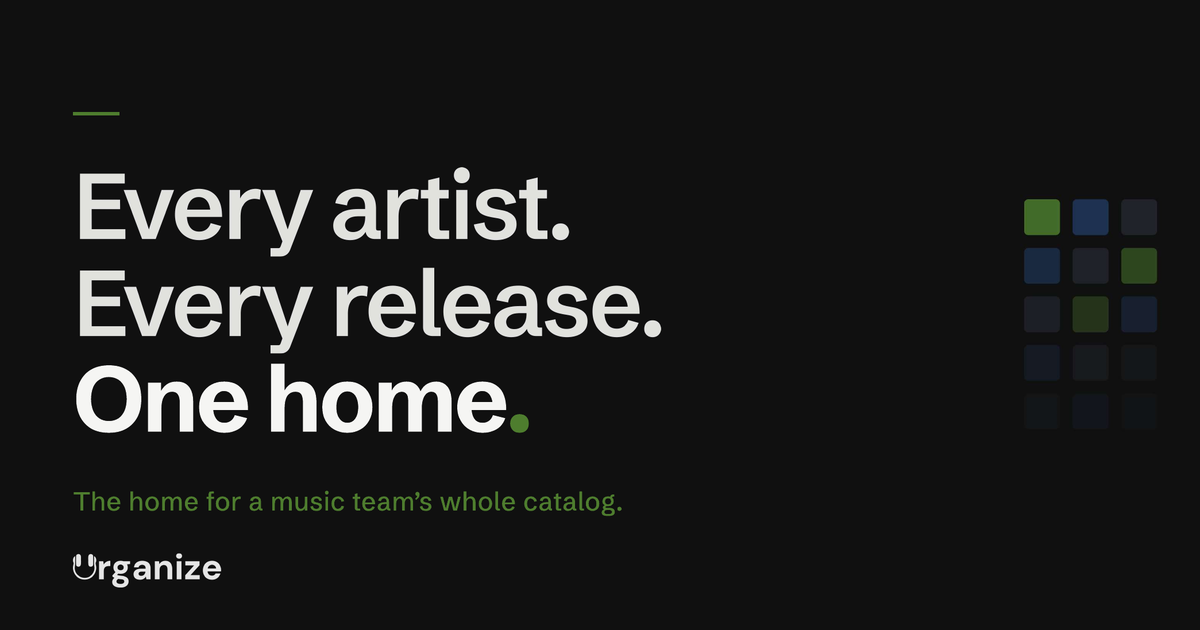
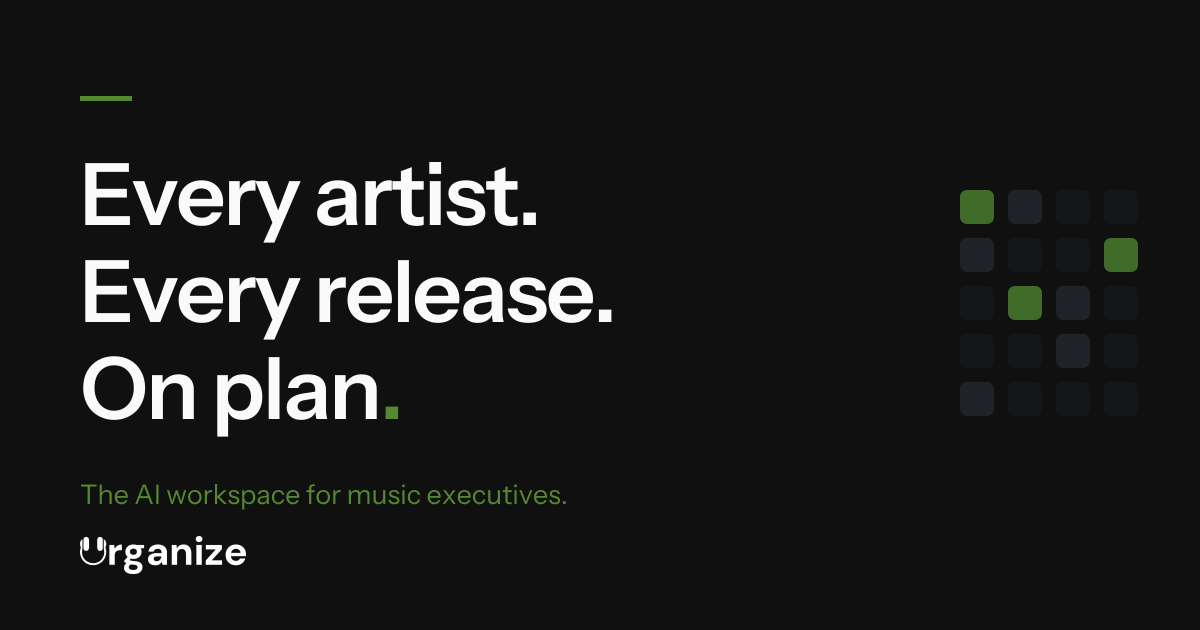
feat: reposition homepage for music executives
New locked positioning (founder brief, Aug 2026): Urganize is the AI
workspace for music executives working with ambitious artists. The hero
drops the banned 'One home' container metaphor for 'Run every release to
plan.', the eyebrow carries the category line, sections reframe from
manager-hero to executive-hero, and the founder-supplied proof numbers
plus the Founding Member line land at the credibility beat and final CTA.

SEO title/description/keywords rewritten (feeds all four JSON-LD schemas
from one constant); OG card regenerated with the new tagline and
SHARE_IMAGE_VERSION bumped per URG-156. Fixes shipped Oxford commas in
house copy and the 'Change anything.' reorder implication (reordering has
no UI). Verbatim testimonial quotes untouched; provenance comment in
testimonials.ts corrected (before-strings are first-class copy now).

No changelog entry or version bump: marketing-site scope.

diff --git a/apps/homepage/lib/seo.ts b/apps/homepage/lib/seo.ts
@@ -11,8 +11,11 @@ const SITE_NAME = "Urganize";
 // the one page brand queries land on.
 //
 // TITLE: names the audience rather than a generic "for Teams" — the searcher
-// should see themselves in the result. 56 characters, so Google renders it
-// whole instead of truncating mid-phrase.
+// should see themselves in the result. Kept ≤60 characters (currently 51),
+// so Google renders it whole instead of truncating mid-phrase. Query intent
+// lives in the title ("label teams" is what buyers actually search); the
+// locked positioning line ("AI workspace for music executives") lives in
+// the description.
 //
 // DESCRIPTION: written at ~156 characters on purpose. The previous one was
 // 106 characters and opened with "How", and Google was ignoring it entirely —
@@ -23,9 +26,9 @@ const SITE_NAME = "Urganize";
 // data-nosnippet attributes on that community copy close the other half of
 // the problem.
 export const LANDING_TITLE =
-  "Urganize | Music Release Management for Artist Managers";
+  "Urganize | Music Release Workspace for Label Teams";
 export const LANDING_DESCRIPTION =
-  "Urganize gives artist managers and small labels one home for every release. Plan the rollout, give every task an owner, and stop chasing status in WhatsApp.";
+  "Urganize is the AI workspace for music executives. Run each release on an 11-week plan, put an owner on every task and see status without chasing anyone.";
 
 // Absolute, canonical share image. Served as a static asset from public/
 // (NOT the app/opengraph-image.png file convention), so the URL is stable
@@ -42,13 +45,16 @@ export const LANDING_DESCRIPTION =
 // Bump this string every time public/opengraph-image.png changes so the
 // URL is new to every platform and the very next fetch pulls fresh bytes,
 // instead of depending on a manual re-scrape request or an unknown TTL.
-const SHARE_IMAGE_VERSION = "2026-07-18";
+const SHARE_IMAGE_VERSION = "2026-08-19";
 
 const SHARE_IMAGE = {
   url: `${SITE_URL}/opengraph-image.png?v=${SHARE_IMAGE_VERSION}`,
   width: 1200,
   height: 630,
-  alt: "Every artist. Every release. One home. Urganize.",
+  // Alt mirrors the text baked into the PNG (regenerated 2026-08-19 for the
+  // executive repositioning — the old card said "One home", a banned
+  // container metaphor). If the card's tagline changes, change both.
+  alt: "Every artist. Every release. On plan. The AI workspace for music executives. Urganize.",
 };
 
 // Shared per-page metadata shape (canonical + OG + Twitter) so every

diff --git a/apps/homepage/content/testimonials.ts b/apps/homepage/content/testimonials.ts
@@ -94,14 +94,21 @@ export const TESTIMONIALS: Record<TestimonialId, Testimonial> = {
   },
 };
 
-// Urganize's OWN description of the pre-Urganize workflow, lifted verbatim
-// from the already-approved comparison copy on /why-urganize (the "them"
-// side of each row there). These are NOT the quoted person's words and must
-// never be styled or written as if they were: no quote marks, no name, no
-// implication a testimonial person said this. Kept as a separate export
-// (not a `before` field on Testimonial) on purpose — a shared object
-// invites a future edit to "tidy" the quote to match its pairing, which is
-// exactly the drift this file exists to prevent.
+// Urganize's OWN description of the pre-Urganize workflow. These are NOT
+// the quoted person's words and must never be styled or written as if they
+// were: no quote marks, no name, no implication a testimonial person said
+// this. Kept as a separate export (not a `before` field on Testimonial) on
+// purpose — a shared object invites a future edit to "tidy" the quote to
+// match its pairing, which is exactly the drift this file exists to prevent.
+//
+// PROVENANCE CORRECTION (2026-08-19): this comment used to claim every
+// `before` was verbatim from /why-urganize's `comparisons[].them`. That
+// stopped being true when that page was refolded on 2026-08-05 — after the
+// fold only Antoine's matched `comparisons[0].them` and Adenaiye's matched
+// `compactComparisons[0].them`; Tamuno's matched nothing. These strings are
+// now first-class house copy owned HERE; /why-urganize MIRRORS the Antoine
+// and Adenaiye rows (keep those byte-identical when either file changes)
+// and Tamuno's row is standalone.
 export interface TransformationPair {
   testimonialId: TestimonialId;
   kicker: string;
@@ -123,7 +130,7 @@ export const transformationPairs: readonly TransformationPair[] = [
     testimonialId: "antoine",
     kicker: "The plan",
     before:
-      "The plan sits in a pinned message, a spreadsheet someone made once, and your head. Every new release starts from zero, plus whatever you remember from the last one.",
+      "The plan sits in a pinned message, a spreadsheet someone made once and your head. Every new release starts from zero, plus whatever you remember from the last one.",
   },
   {
     testimonialId: "adenaiye",

diff --git a/apps/homepage/app/components/landing/sections/HeroSection.tsx b/apps/homepage/app/components/landing/sections/HeroSection.tsx
@@ -12,26 +12,29 @@ export function HeroSection() {
       containerClassName={wideContainerClass}
     >
       <div className="mx-auto flex max-w-[64rem] flex-col items-center text-center">
+        {/* Executive repositioning (2026-08-19): the eyebrow carries the
+            locked category claim as a plain noun; the h1 spends its words
+            on the buyer's outcome. "AI workspace" is a category label here
+            — AI verbs only ever describe shipped UrgAns behavior (see
+            ThreeFeaturesSection). */}
         <p className="hero-fade-in mono-label text-[var(--marketing-text-subtle)]">
-          For labels and artist managers
+          The AI workspace for music executives
         </p>
 
         <div className="mt-8 flex flex-col items-center gap-8 sm:gap-10">
-          {/* Identity-first h1 (2026-08-13 tone-down): the old 13-word
-              pain-hook ("Stop running your artists' releases out of
-              WhatsApp threads...") said what to stop, not what this is.
-              The product identity now leads; the WhatsApp pain is demoted
-              to the subhead where it still triggers recognition. */}
+          {/* Outcome-first h1: the old "One home for every release" was a
+              container metaphor, banned under the 2026-08 positioning.
+              The accent stays on "every release" — the unit of work. */}
           <h1 className="hero-fade-in hero-delay-1 mx-auto max-w-[16ch] text-balance text-[2.8rem] font-semibold leading-[1.04] tracking-[-0.05em] text-[var(--marketing-text)] sm:text-[4.4rem] lg:text-[5.6rem]">
-            One home for{" "}
+            Run{" "}
             <span className="italic text-[var(--marketing-accent)]">
               every release
             </span>{" "}
-            you run.
+            to plan.
           </h1>
 
           <p className="hero-fade-in hero-delay-2 mx-auto block w-full max-w-[44rem] text-balance text-center text-lg leading-8 text-[var(--marketing-text-muted)] sm:text-[1.25rem] sm:leading-9">
-            Urganize plans the rollout, gives every activity an owner, and
+            Urganize plans the rollout, gives every activity an owner and
             shows you where each release stands. No more scrolling WhatsApp
             to find out.
           </p>

diff --git a/apps/homepage/app/components/landing/sections/FinalCTASection.tsx b/apps/homepage/app/components/landing/sections/FinalCTASection.tsx
@@ -13,8 +13,28 @@ export function FinalCTASection() {
             Releases shouldn&apos;t be hard to run.
           </h2>
 
+          {/* The one artists-as-advocates line on the page (2026-08
+              positioning: executives buy, artists benefit, word spreads).
+              Addressed to the executive — never to the artist. Cuttable if
+              the page ever feels heavy again. */}
+          <p className="mx-auto mt-6 max-w-[32rem] text-balance text-base leading-7 text-[var(--marketing-text-muted)]">
+            Your artists will feel the difference.
+          </p>
+
           <div className="relative z-[60] mt-10 flex w-full flex-col items-center gap-3">
             <WaitlistForm source="homepage_final_cta" />
+            {/* Founding Member line at the decision point, not the hero:
+                scarcity belongs next to the ask. Every claim here is
+                checkable — the cap, the price lock and the conversion
+                figure are founder-supplied (2026-08 brief); /pricing
+                carries a matching line so the two pages never disagree.
+                The 43% sentence is the founder's first-cut candidate if
+                this ever reads as too much. */}
+            <p className="mx-auto max-w-[30rem] text-balance text-sm leading-6 text-[var(--marketing-text-subtle)]">
+              Founding Members: capped at 10 teams, price locked for life.
+              43% of teams that try Urganize pay for it. There is no sales
+              team.
+            </p>
             {/* Adenaiye's chaos/multiple-releases sentence — the sharpest
                 ICP-match line on the site — at the last chance to convert a
                 scroller. Swapped off tamuno 2026-08-13: his full quote

diff --git a/apps/homepage/app/components/landing/sections/WorkspaceShotSection.tsx b/apps/homepage/app/components/landing/sections/WorkspaceShotSection.tsx
@@ -15,14 +15,20 @@ export function WorkspaceShotSection() {
         containerClassName={wideContainerClass}
         className="py-[60px] lg:py-[80px]"
       >
+        {/* Proof numbers live here — the page's designated credibility
+            beat (screen three) — not in a separate hero strip; the page
+            was deliberately trimmed for overwhelm on 2026-08-13. Numbers
+            are founder-supplied (2026-08 brief): update or remove them the
+            moment they stop being true. */}
         <p className="mono-label mb-10 text-center text-[var(--marketing-text-subtle)]">
-          Live since January 2026
+          7 founding teams, 10 artists and 2 releases running right now.
+          Live since January 2026.
         </p>
         <div className="overflow-hidden rounded-xl border border-[color:var(--marketing-border)]">
           <ThemedProductShot
             light="/images/product/workspace-releases.png"
             dark="/images/product/workspace-releases-dark.png"
-            alt="The Urganize catalog: a grid of release cards, each with cover art, a release date, and a progress bar counting finished activities against its 64-activity plan. The top row runs from 0 of 64 done to 30 of 64."
+            alt="The Urganize catalog: a grid of release cards, each with cover art, a release date and a progress bar counting finished activities against its 64-activity plan. The top row runs from 0 of 64 done to 30 of 64."
             width={1920}
             height={970}
             sizes="(min-width: 1440px) 1344px, (min-width: 1024px) calc(100vw - 80px), 100vw"

diff --git a/apps/homepage/app/components/landing/sections/TransformationSection.tsx b/apps/homepage/app/components/landing/sections/TransformationSection.tsx
@@ -16,8 +16,9 @@ import { centeredHeadlineClass } from "./shared";
 // status (Tamuno). See content/testimonials.ts for the sign-off log.
 //
 // ATTRIBUTION SAFEGUARD (read before touching this file): each row's LEFT
-// cell is Urganize's own words about the pre-Urganize workflow (lifted
-// verbatim from the already-approved /why-urganize comparison copy). It
+// cell is Urganize's own words about the pre-Urganize workflow (owned by
+// content/testimonials.ts — see the provenance note there; /why-urganize
+// mirrors two of the rows). It
 // must never carry quote marks, a name, or a <figcaption> — that would
 // misattribute Urganize's words to the testimonial person. The asymmetry
 // between the two cells (plain muted text on the left; <figure> + curly
@@ -35,8 +36,13 @@ export function TransformationSection() {
           <p className="mono-label text-[var(--marketing-text-subtle)]">
             What changed
           </p>
+          {/* Executive repositioning (2026-08-19): the buyer this page
+              addresses is the executive; the quoted people are the ones who
+              run the releases day to day — which is exactly whose word an
+              executive wants before buying. Roles render verbatim from
+              testimonials.ts and are immutable. */}
           <h2 className={`mt-6 ${centeredHeadlineClass}`}>
-            Managers who made the move, in their words.
+            The people who run releases, in their own words.
           </h2>
         </div>
 

diff --git a/apps/homepage/app/components/landing/sections/TemplatePlanSection.tsx b/apps/homepage/app/components/landing/sections/TemplatePlanSection.tsx
@@ -33,9 +33,14 @@ export function TemplatePlanSection() {
             Every release starts with a plan. Yours has 64 activities.
           </h2>
 
+          {/* "Edit or delete", never "reorder" or a bare "change anything":
+              reordering has no UI (CLAUDE.md — the endpoint was deleted
+              2026-07-10), and the honesty rule bans advertising it. Edit
+              and delete both ship (task drawer + UrgAns delete_task). */}
           <p className={`mx-auto mt-8 max-w-[40rem] ${mutedLeadClass}`}>
             Create a release and the full 11-week rollout appears, written by
-            real managers. Every activity has an owner. Change anything.
+            real managers. Every activity has an owner. Edit or delete any of
+            them.
           </p>
         </div>
 
@@ -69,7 +74,7 @@ export function TemplatePlanSection() {
           <ThemedProductShot
             light="/images/product/workspace-tasks.png"
             dark="/images/product/workspace-tasks-dark.png"
-            alt="A release open in Urganize: the progress bar at 1 of 64, the upcoming activities listed with a due date on every row, and the UrgAns assistant docked alongside them."
+            alt="A release open in Urganize: the progress bar at 1 of 64, the upcoming activities listed with a due date on every row and the UrgAns assistant docked alongside them."
             width={1920}
             height={970}
             sizes="(min-width: 1024px) 928px, 100vw"

diff --git a/apps/homepage/app/layout.tsx b/apps/homepage/app/layout.tsx
@@ -15,14 +15,17 @@ import { Analytics } from "@vercel/analytics/next";
 
 const SITE_URL = "https://urganize.app";
 const LEGAL_NAME = "The Urganization Ltd";
+// Executive repositioning (2026-08-19): label/exec-shaped terms lead;
+// "artist manager software" stays — managers remain a real search segment
+// and the ecosystem entry point, they're just no longer the hero.
 const LANDING_KEYWORDS = [
   "music release management",
-  "artist manager software",
-  "music project management",
-  "label management tool",
+  "label management software",
+  "record label software",
+  "music release planning",
   "release rollout plan",
-  "music release checklist",
-  "artist team software",
+  "artist manager software",
+  "A&R software",
 ] as const;
 
 // Typography

diff --git a/apps/homepage/app/components/landing/sections/CommunitySection.tsx b/apps/homepage/app/components/landing/sections/CommunitySection.tsx
@@ -47,7 +47,7 @@ export function CommunitySection() {
             data-nosnippet
             className="text-balance text-[1.5rem] font-semibold leading-[1.15] tracking-[-0.03em] text-[var(--marketing-text)] sm:text-[1.75rem]"
           >
-            See how other managers run their releases.
+            See how other teams run their releases.
           </h2>
 
           <p

diff --git a/CLAUDE.md b/CLAUDE.md
@@ -690,6 +690,7 @@ A design/marketing review found the homepage misrepresenting the product and gat
 - **Reprice (2026-07-15, full Monthly retier):** Monthly ₦17,000→₦150,000 / $26→$100, Annual ₦170,000→₦1,500,000 / $260→$1,000 (10× monthly — the exact "2 months free" ratio the pre-07-14 tier had, applied to the new base). This is the display/code half of finally closing the 07-14 gap noted above. **Operational step DONE for NGN (2026-07-20, URG-162):** two new Live Paystack Plan objects created — "Urganize Monthly NGN (2026)" `PLN_fcwtgnjs90ca71n` (₦150,000/mo) and "Urganize Annual NGN (2026)" `PLN_qmec1u8urppfu35` (₦1,500,000/yr) — and `PAYSTACK_PLAN_MONTHLY_NGN` / `PAYSTACK_PLAN_ANNUAL_NGN` repointed in Vercel (`urganize` project, Production+Preview) with a production redeploy verified Ready. Old Plan objects left untouched (any subscriber bound to one keeps renewing at their original rate; the reprice-time audit found zero real Monthly-tier subscribers anyway). **USD half is BLOCKED at the account level: the Paystack account only offers NGN in plan creation** (this also explains the mislabeled legacy "PAYSTACK_PLAN_LABEL_USD" plan, which is actually ₦750,000 NGN — a previous attempt hit the same wall). There are no `PAYSTACK_PLAN_*_USD` env vars in Vercel at all, so USD checkout 500s with "plan not configured" — true before and after this change. To enable USD billing: ask Paystack support to enable USD/international payments, then create the 2 USD plans ($100/mo, $1,000/yr) and add the two env vars. A live audit at reprice time found **zero real Monthly-tier subscribers** in `subscriptions` (the only 3 rows present are dead `trial_claim`-era artifacts from the retired card-on-file trial flow — `amount: 0`, no `paystack_subscription_code`, `expires_at` lapsed since March — kept "paid" only by the `profiles.is_subscribed` back-compat branch in `resolveSnapshot`, unrelated to real billing), so no grandfathering policy was needed. ~~Known, accepted state: Annual now exceeds Label in Naira~~ **Resolved 2026-07-15: Label was switched to a "Contact us" sales-led tier (see the Label contact-sales note above), so there's no Label price to invert against — the ladder inversion is moot.**
 - **Reprice (2026-08-16, NGN legs only — founder call):** Monthly ₦150,000→**₦3,500**, Annual ₦1,500,000→**₦35,000**. Annual holds the "10× monthly / 2 months free" ratio every prior tier has kept. Two things this pass deliberately did NOT do, both of which are live gaps rather than oversights: (1) **the USD legs are untouched** ($100/mo, $1,000/yr), so the `/locked` currency toggle now shows two prices that are not the same offer (₦3,500 ≈ $2.30) — tolerable only because USD checkout has never worked (no `PAYSTACK_PLAN_*_USD` env vars exist; the Paystack account offers NGN only in plan creation), so reprice or hide the USD leg before USD billing is ever switched on; (2) **no new Paystack Plan objects were created**, so `PAYSTACK_PLAN_MONTHLY_NGN` / `PAYSTACK_PLAN_ANNUAL_NGN` still point at the ₦150,000 / ₦1,500,000 Plans and checkout will **advertise ₦3,500 and charge ₦150,000** until the founder mints two new Live Plans and repoints those env vars in Vercel (`urganize` project, Production+Preview). That display-vs-Plan gap is exactly what the 2026-07-14 pass shipped and the 2026-07-20 pass had to close — this is the third time it has come up, so treat it as the default follow-up on any reprice, not an edge case. Label untouched (₦800,000 / $1,250, and `contactSales` so no figure displays). **No changelog entry or version bump** — the Versioning section's app-only scope rule states pricing display updates count as marketing.
 - **Follow-up status:** Real workspace screenshots landed 2026-06-11 (staged by the founder; `public/images/product/workspace-releases.png` + `workspace-tasks.png`, shown in `WorkspaceShotSection` and inside `TemplatePlanSection`) — retake them whenever the UI meaningfully changes. Testimonial now credits Adenaiye Miracle (Artist Manager) with permission; the quote is her verbatim words — never publish words she hasn't approved.
+- **Repositioned (2026-08-19, founder brief):** the locked marketing positioning is now **"Urganize is the AI workspace for music executives working with ambitious artists"** — executives (label heads, A&R, VP Ops) are the buyer and the hero; artists are ecosystem advocates, never the addressee. Hard language rules for ALL marketing copy: no "system of record", no container/location metaphors ("one home", "lives in one place" — the old hero and OG card were the canonical violations), "workspace" allowed, fifth-grader readability, **no Oxford comma in house copy** (verbatim customer quotes exempt). The homepage, `lib/seo.ts` strings (which feed the four JSON-LD schemas), `LANDING_KEYWORDS` and the OG card were rewritten in the first pass (`SHARE_IMAGE_VERSION` bumped per URG-156; the card's baked tagline is now "Every artist. Every release. On plan."); the ProductMenu pages and persona pages follow in two sweep PRs. New public claims, all founder-supplied (2026-08 brief): 7 founding teams / 10 artists / 2 active releases (WorkspaceShot label), 43% convert to paid + no sales team + Founding Member cohort capped at 10 teams with lifetime price lock (FinalCTA line, echoed on /pricing) — update or remove the moment any stops being true. All prior rules here (honesty rule, verbatim-quote sign-off, data-nosnippet pairing, screenshot currency) still bind. **Known doc drift, deliberately left:** this file's product-scope "Target user for v1" paragraph predates this positioning and was not rewritten — marketing speaks to executives; the v1 build-scope description remains the historical record it was.
 
 ---
 
